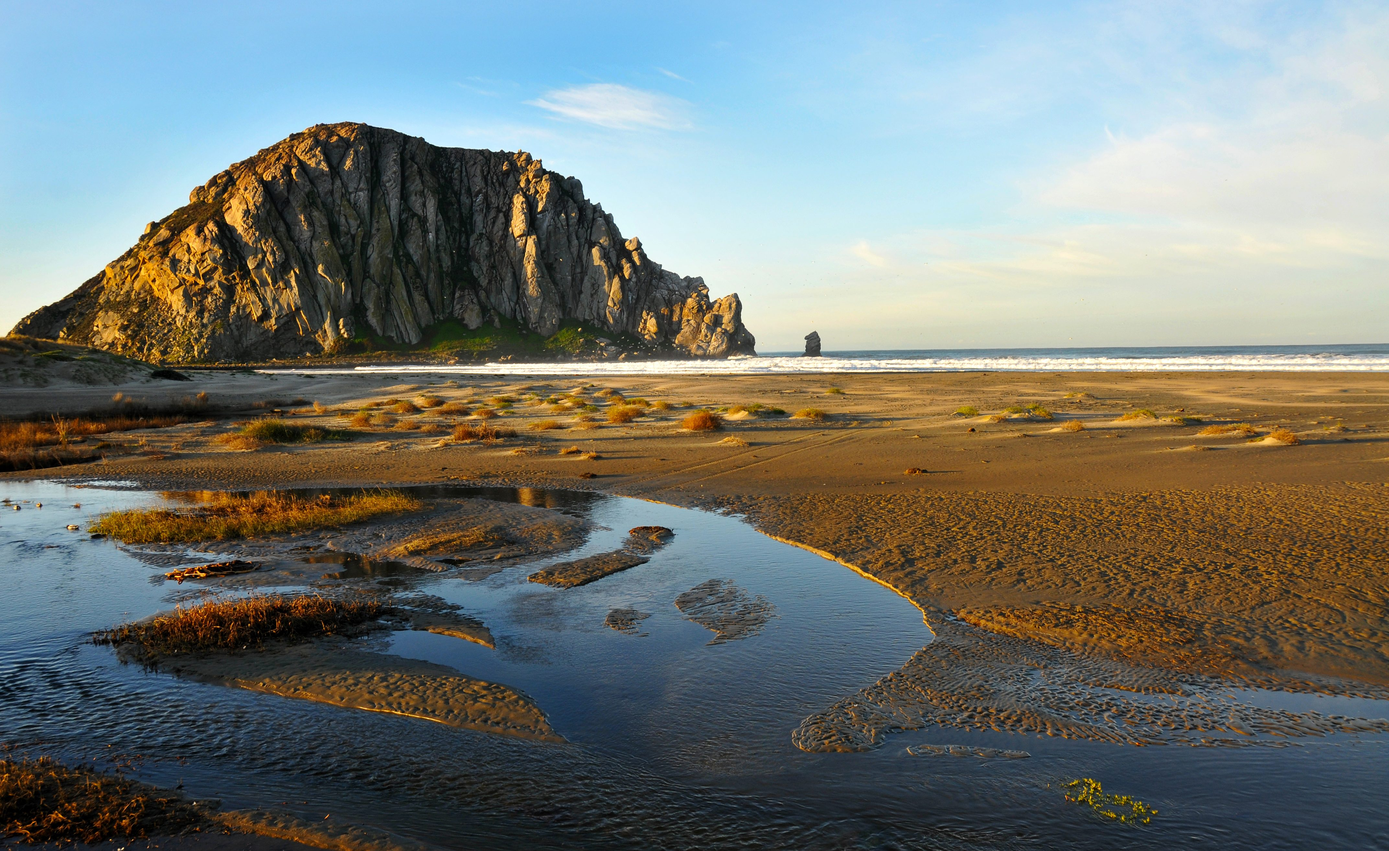
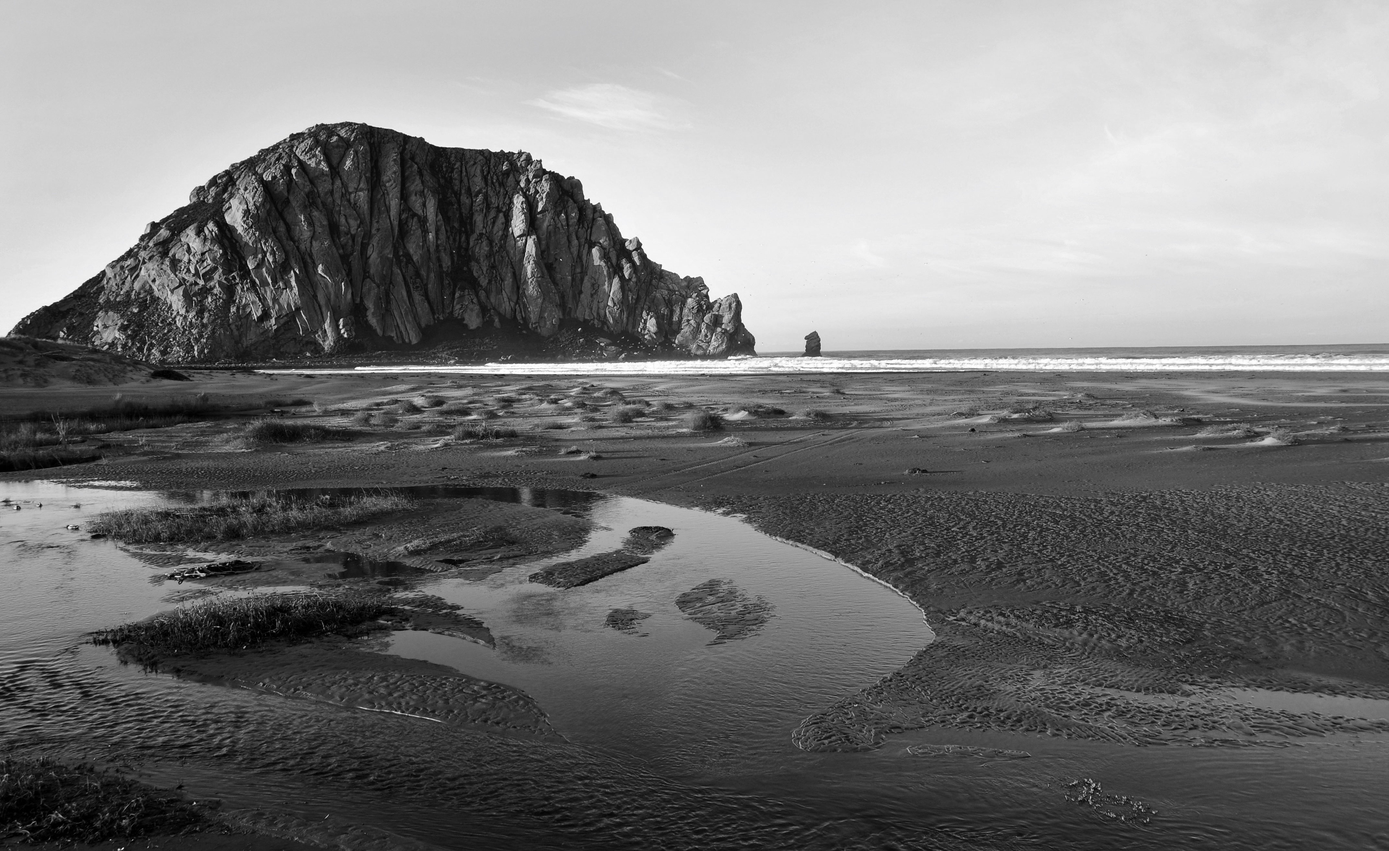
changed background images to black and white

diff --git a/app/styles/_home.scss b/app/styles/_home.scss
@@ -27,6 +27,7 @@
         background-position: center;
         opacity: 1;
         transition: all 3s ease;
+        transition-delay: .5s;
     }
 }
 
@@ -38,6 +39,7 @@
         background-position: center;
         opacity: 0;
         transition: all 3s ease;
+        transition-delay: .5s;
     }
 }
 
@@ -49,6 +51,7 @@
         background-position: center;
         opacity: 1;
         transition: all 3s ease;
+        transition-delay: .5s;
     }
 }
 
@@ -60,6 +63,7 @@
         background-position: center;
         opacity: 0;
         transition: all 3s ease;
+        transition-delay: .5s;
     }
 }
 
@@ -71,9 +75,10 @@
         background-position: center;
         opacity: 1;
         transition: all 3s ease;
+        transition-delay: .5s;
     }
 }
 
 .contact {
-    
+
 }

diff --git a/app/styles/_config.scss b/app/styles/_config.scss
@@ -2,8 +2,11 @@
 @import url('https://fonts.googleapis.com/css?family=Megrim|Open+Sans+Condensed:300');
 
 // Colors
-$overlay-black: rgba(0,0,0,0.8);
-$overlay-white: rgba(225,225,225,0.8);
+$overlay-black: rgba(0,0,0,0.5);
+$overlay-white: rgba(225,225,225,0.5);
+
+$gold: rgb(238,232,170);
+$gradient-gold: -webkit-linear-gradient(top, #d5cea6 0%,#c9c190 40%,#b7ad70 100%);
 
 // Settings
 .ember-application {
@@ -16,4 +19,12 @@ h1, h2 {
 
 ul {
     list-style: none;
+}
+
+a {
+    color: $gold;
+
+    &:hover {
+        color: $gold;
+    }
 }

diff --git a/app/styles/_page.scss b/app/styles/_page.scss
@@ -1,6 +1,6 @@
 // Global Section Config
 #fp-nav ul li a span, .fp-slidesNav ul li a span {
-    background: $white;
+    background: $gradient-gold;
 }
 
 // Helpter Classes
@@ -12,6 +12,10 @@
 .black {
     background-color: $black;
     color: $white;
+}
+
+.gold {
+    color: $gold;
 }
 
 .full {

diff --git a/app/styles/_nav.scss b/app/styles/_nav.scss
@@ -8,6 +8,10 @@
         position: fixed;
         top: 0;
         left: 0;
+
+        &--text {
+            color: black;
+        }
     }
 
     &__mobile-toggle {

diff --git a/app/styles/_actions.scss b/app/styles/_actions.scss
@@ -11,3 +11,7 @@
     opacity: 0;
     width: 0;
 }
+
+.shift {
+    transform: translate(0);
+}
